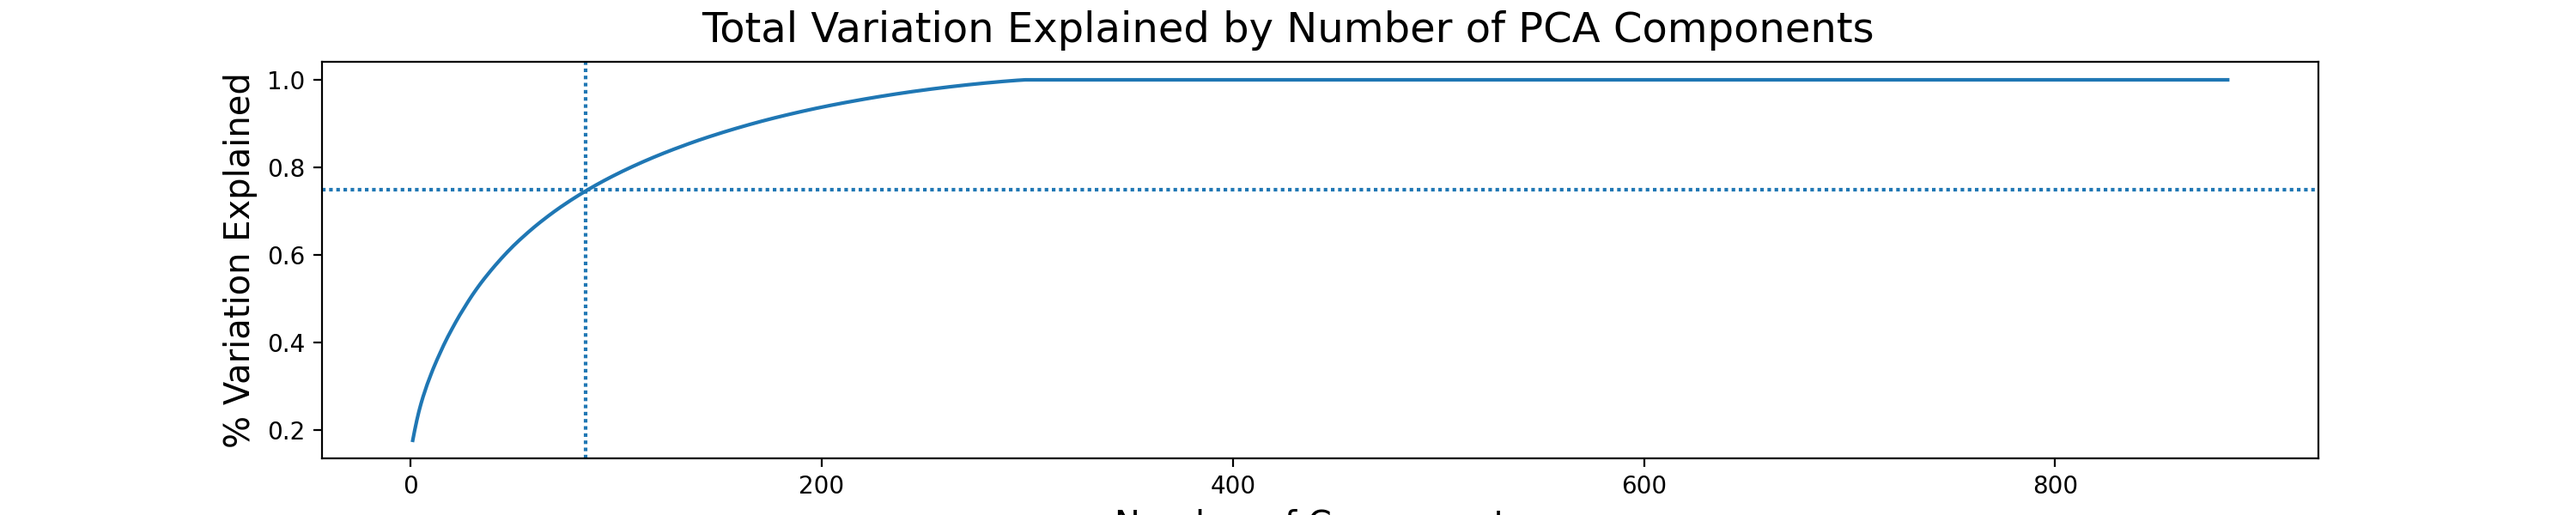
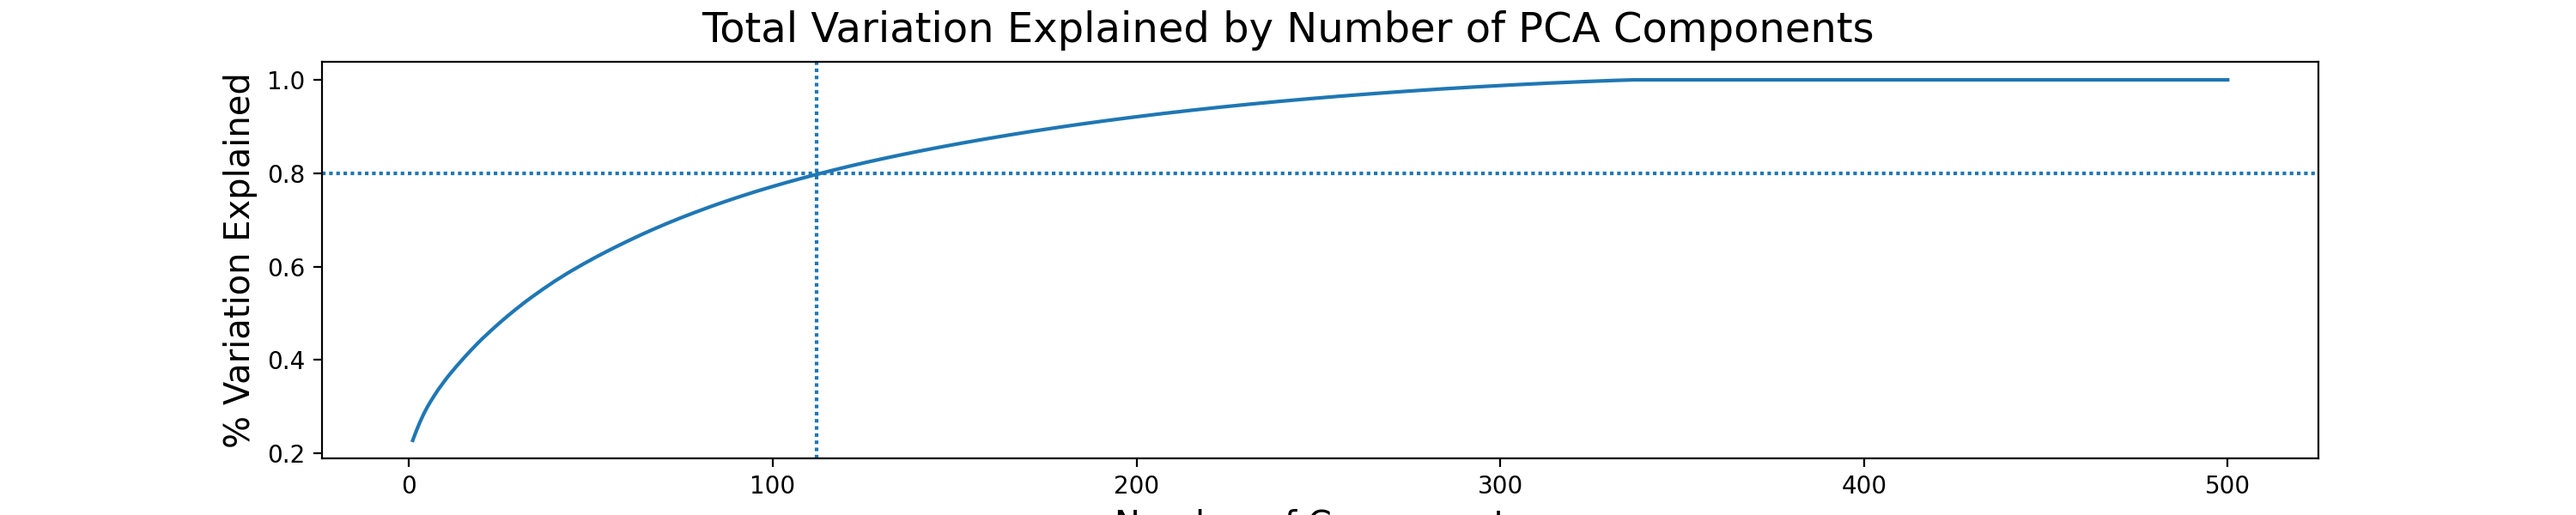
Updated PCA Code

diff --git a/experiments/pca/pca.py b/experiments/pca/pca.py
@@ -6,7 +6,7 @@ args = parser.parse_args()
 SUFFIX = 'hog'
 CITY = 'aleppo_cropped'
 DATA_DIR = "../../../data"
-PERC_VARIANCE = 0.75
+PERC_VARIANCE = 0.80
 
 if args.suffix:
     SUFFIX = args.suffix 
@@ -53,21 +53,36 @@ def delete_zarr_if_exists(city, suffix, path="../data"):
     if os.path.exists(path):
         shutil.rmtree(path)
 
-suffixes = [f"pca_{SUFFIX}_tr",f"pca_{SUFFIX}_va",f"pca_{SUFFIX}_te"]
+suffixes = [f"pca_{SUFFIX}_tr_pre",f"pca_{SUFFIX}_va_pre",f"pca_{SUFFIX}_te_pre", f"pca_{SUFFIX}_tr_post",f"pca_{SUFFIX}_va_post",f"pca_{SUFFIX}_te_post"]
 for s in suffixes:
     delete_zarr_if_exists(CITY, s, DATA_DIR)
 
 
-images_tr = read_zarr(CITY, f"{SUFFIX}_tr_post", DATA_DIR)[:]
-images_va = read_zarr(CITY, f"{SUFFIX}_va_post", DATA_DIR)[:]
-images_te = read_zarr(CITY, f"{SUFFIX}_te_post", DATA_DIR)[:]
+images_pre = read_zarr(CITY, f"{SUFFIX}_tr_pre", DATA_DIR)[:]
+n_pre = images_pre.shape
+new_array = [tuple(row) for row in images_pre]
+images_pre = np.unique(new_array, axis=0)
+images_pre = images_pre.reshape(images_pre.shape[0], 128*128)
+del new_array
+print(f"images_pre shape: {images_pre.shape}")
 
-images_tr = images_tr.reshape((images_tr.shape[0], 128*128))
-images_va = images_va.reshape((images_va.shape[0], 128*128))
-images_te = images_te.reshape((images_te.shape[0], 128*128))
+images_tr_pre = read_zarr(CITY, f"{SUFFIX}_tr_pre", DATA_DIR)[:]
+images_va_pre = read_zarr(CITY, f"{SUFFIX}_va_pre", DATA_DIR)[:]
+images_te_pre = read_zarr(CITY, f"{SUFFIX}_te_pre", DATA_DIR)[:]
+images_tr_post = read_zarr(CITY, f"{SUFFIX}_tr_post", DATA_DIR)[:]
+images_va_post = read_zarr(CITY, f"{SUFFIX}_va_post", DATA_DIR)[:]
+images_te_post = read_zarr(CITY, f"{SUFFIX}_te_post", DATA_DIR)[:]
 
-images_all = np.append(images_tr, images_va, axis=0)
-images_all = np.append(images_all, images_te, axis=0)
+images_tr_pre = images_tr_pre.reshape((images_tr_pre.shape[0], 128*128))
+images_va_pre = images_va_pre.reshape((images_va_pre.shape[0], 128*128))
+images_te_pre = images_te_pre.reshape((images_te_pre.shape[0], 128*128))
+images_tr_post = images_tr_post.reshape((images_tr_post.shape[0], 128*128))
+images_va_post = images_va_post.reshape((images_va_post.shape[0], 128*128))
+images_te_post = images_te_post.reshape((images_te_post.shape[0], 128*128))
+
+images_all = np.append(images_tr_post, images_va_post, axis=0)
+images_all = np.append(images_all, images_te_post, axis=0)
+images_all = np.append(images_all, images_pre, axis=0)
 
 
 
@@ -77,9 +92,6 @@ images_all = images_all.reshape((images_all.shape[0], 128*128))
 #     n, h, w = images_tr.shape
 #     images = images_tr.reshape(n, h*w)
 
-print(images_tr.shape)
-
-
 
 images_std, mu, sigma = standardize(images_all, full=True)
 # print(images_std.shape)
@@ -87,7 +99,7 @@ k=min(len(images_std), 500)
 pca = PCA(n_components=k)
 pca.fit(images_std)
 n, perc = min(enumerate(pca.explained_variance_ratio_.cumsum()), key=lambda x: abs(x[1]-PERC_VARIANCE))
-print(f"{n} principal components explain ~{100*perc.astype(int)}% of variance")
+print(f"{n} principal components explain ~{(100*perc).astype(int)}% of variance")
 
 fig, ax = plt.subplots(1,1,figsize=(15,3), dpi=200)
 sns.lineplot(x=range(1, k+1), y=pca.explained_variance_ratio_.cumsum(), ax=ax);
@@ -100,32 +112,47 @@ plt.savefig(f"{SUFFIX}_pca_var_plot.png")
 
 
 
-images_tr = standardize(images_tr, mu, sigma)
-pcas = pca.transform(images_tr)
+images_tr_pre = standardize(images_tr_pre, mu, sigma)
+pcas = pca.transform(images_tr_pre)
 pcas[:, -(k-n):] = 0
-save_zarr(city=CITY, data=pcas, suffix=f"pca_{SUFFIX}_tr", path=DATA_DIR)
+save_zarr(city=CITY, data=pcas, suffix=f"pca_{SUFFIX}_tr_pre", path=DATA_DIR)
 
-images_va = standardize(images_va, mu, sigma)
-pcas = pca.transform(images_va)
+images_va_pre = standardize(images_va_pre, mu, sigma)
+pcas = pca.transform(images_va_pre)
 pcas[:, -(k-n):] = 0
-save_zarr(city=CITY, data=pcas, suffix=f"pca_{SUFFIX}_va", path=DATA_DIR)
+save_zarr(city=CITY, data=pcas, suffix=f"pca_{SUFFIX}_va_pre", path=DATA_DIR)
 
-images_te = standardize(images_te, mu, sigma)
-pcas = pca.transform(images_te)
+images_te_pre = standardize(images_te_pre, mu, sigma)
+pcas = pca.transform(images_te_pre)
 pcas[:, -(k-n):] = 0
-save_zarr(city=CITY, data=pcas, suffix=f"pca_{SUFFIX}_te", path=DATA_DIR)
+save_zarr(city=CITY, data=pcas, suffix=f"pca_{SUFFIX}_te_pre", path=DATA_DIR)
+
+images_tr_post = standardize(images_tr_post, mu, sigma)
+pcas = pca.transform(images_tr_post)
+pcas[:, -(k-n):] = 0
+save_zarr(city=CITY, data=pcas, suffix=f"pca_{SUFFIX}_tr_post", path=DATA_DIR)
+
+images_va_post = standardize(images_va_post, mu, sigma)
+pcas = pca.transform(images_va_post)
+pcas[:, -(k-n):] = 0
+save_zarr(city=CITY, data=pcas, suffix=f"pca_{SUFFIX}_va_post", path=DATA_DIR)
+
+images_te_post = standardize(images_te_post, mu, sigma)
+pcas = pca.transform(images_te_post)
+pcas[:, -(k-n):] = 0
+save_zarr(city=CITY, data=pcas, suffix=f"pca_{SUFFIX}_te_post", path=DATA_DIR)
 
 fig,ax = plt.subplots(2,5,sharex=True,sharey=True,figsize=(8,3), dpi=300)
 axes = ax.flatten()
-pcas = pca.transform(images_va[:5])
+pcas = pca.transform(images_va_post[:5])
 pcas[:, -(k-n):] = 0
 for i, im in enumerate(pcas):
     result = pca.inverse_transform(im).reshape((128,128))
-    axes[i].imshow(images_va[i].reshape(128,128), cmap="gray")
+    axes[i].imshow(images_va_post[i].reshape(128,128), cmap="gray")
     axes[i+5].imshow(result, cmap="gray")
 for ax in axes:
     ax.set_xticks([])
     ax.set_yticks([])
-fig.suptitle(f"Images reconstructed using {n} principal components; {PERC_VARIANCE*100}% variance retained",fontsize=12)
+fig.suptitle(f"Reconstr. with {n} principal components; explains ~{(100*perc).astype(int)}% of variance",fontsize=12)
 plt.tight_layout()
 plt.savefig(f"{SUFFIX}_reconstructed.png")
